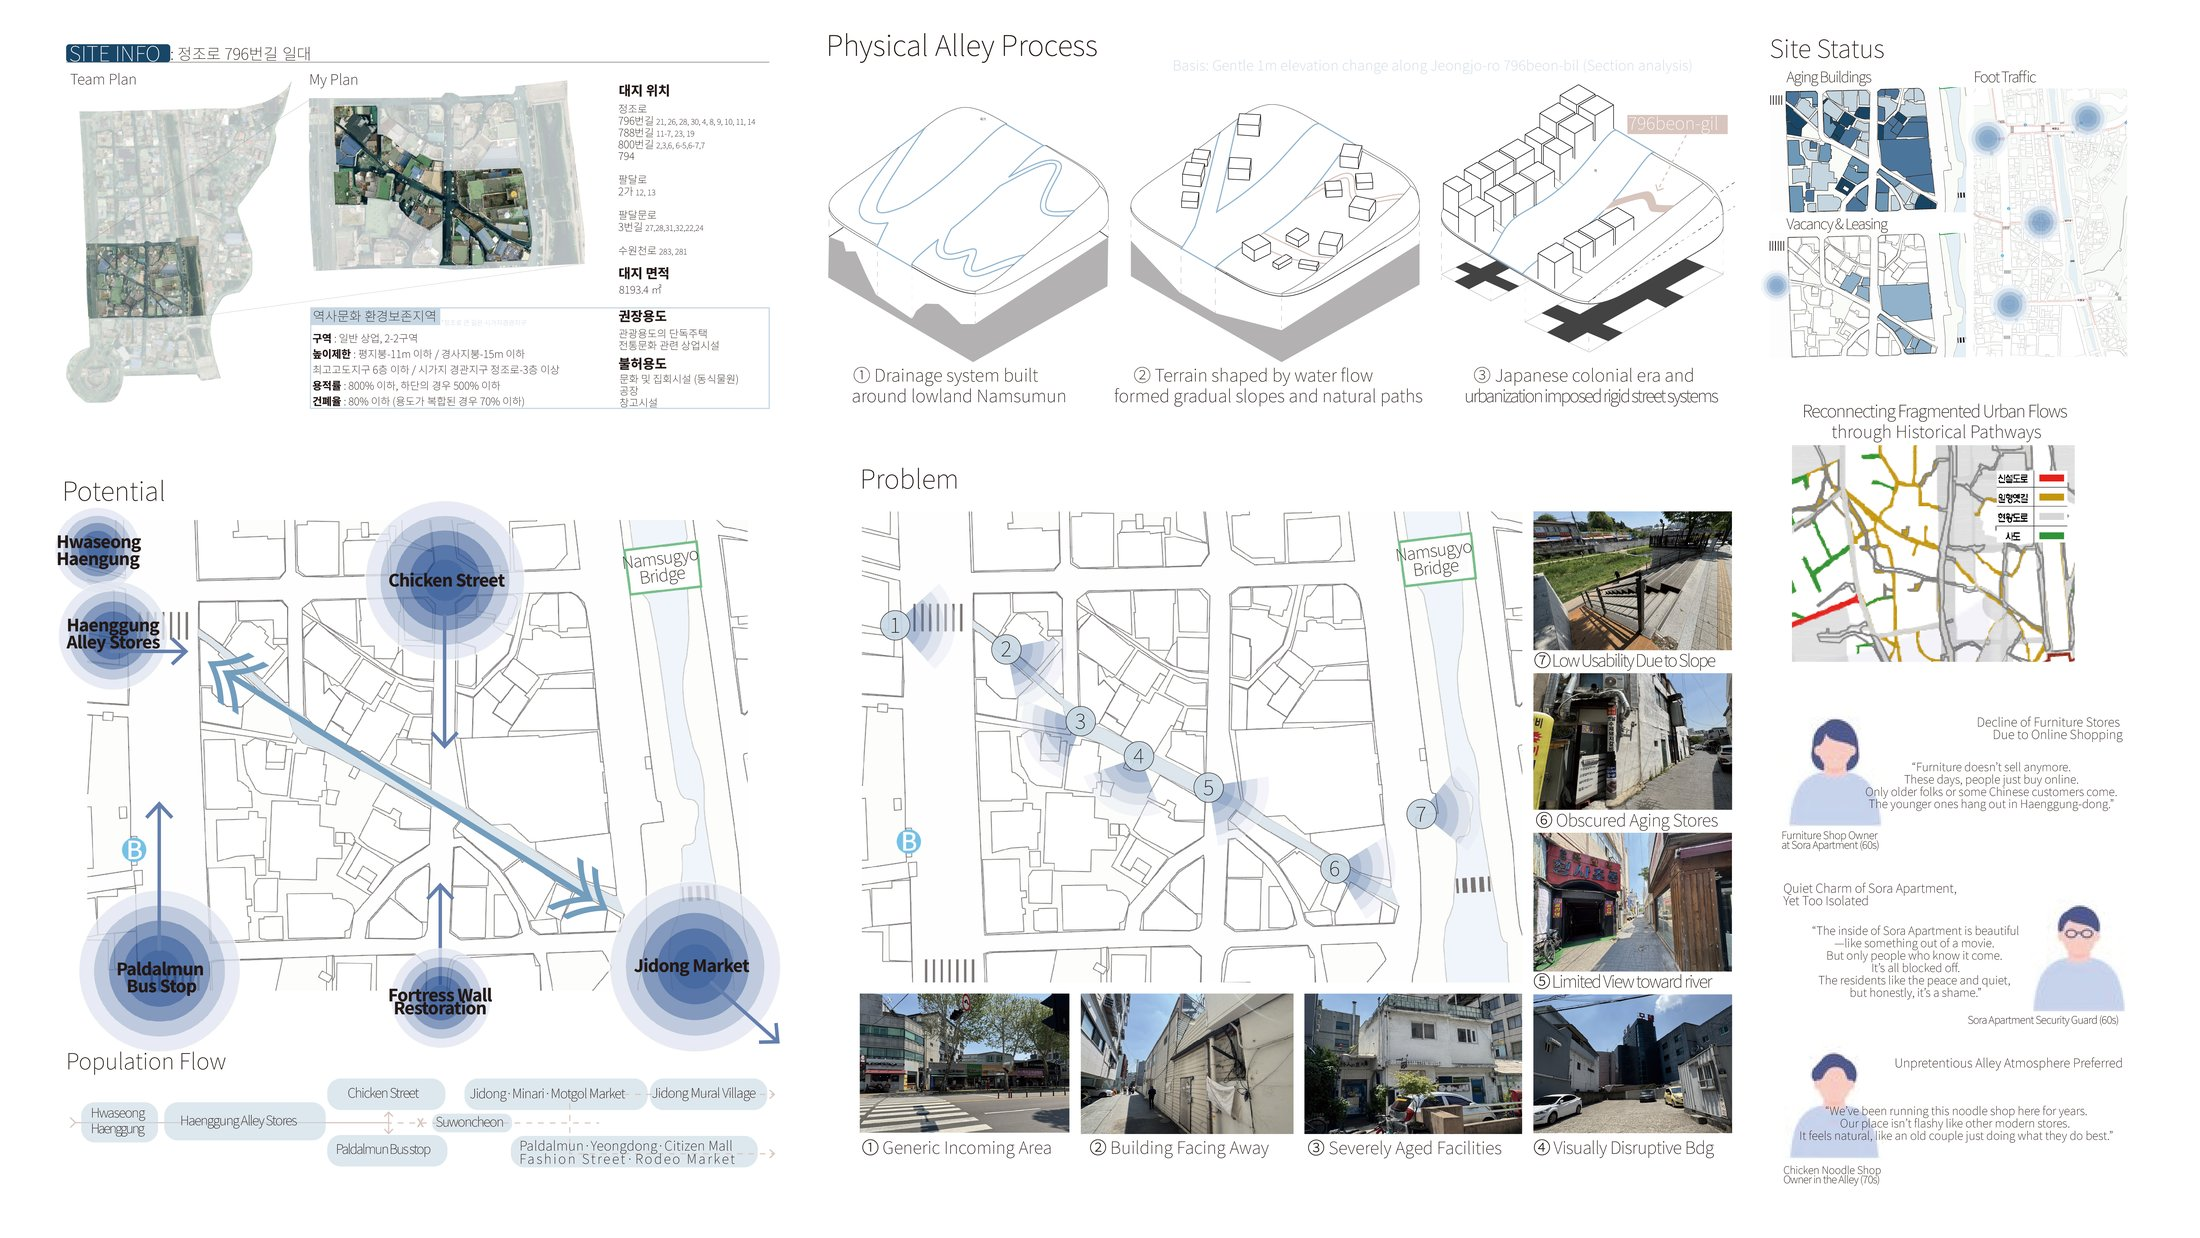
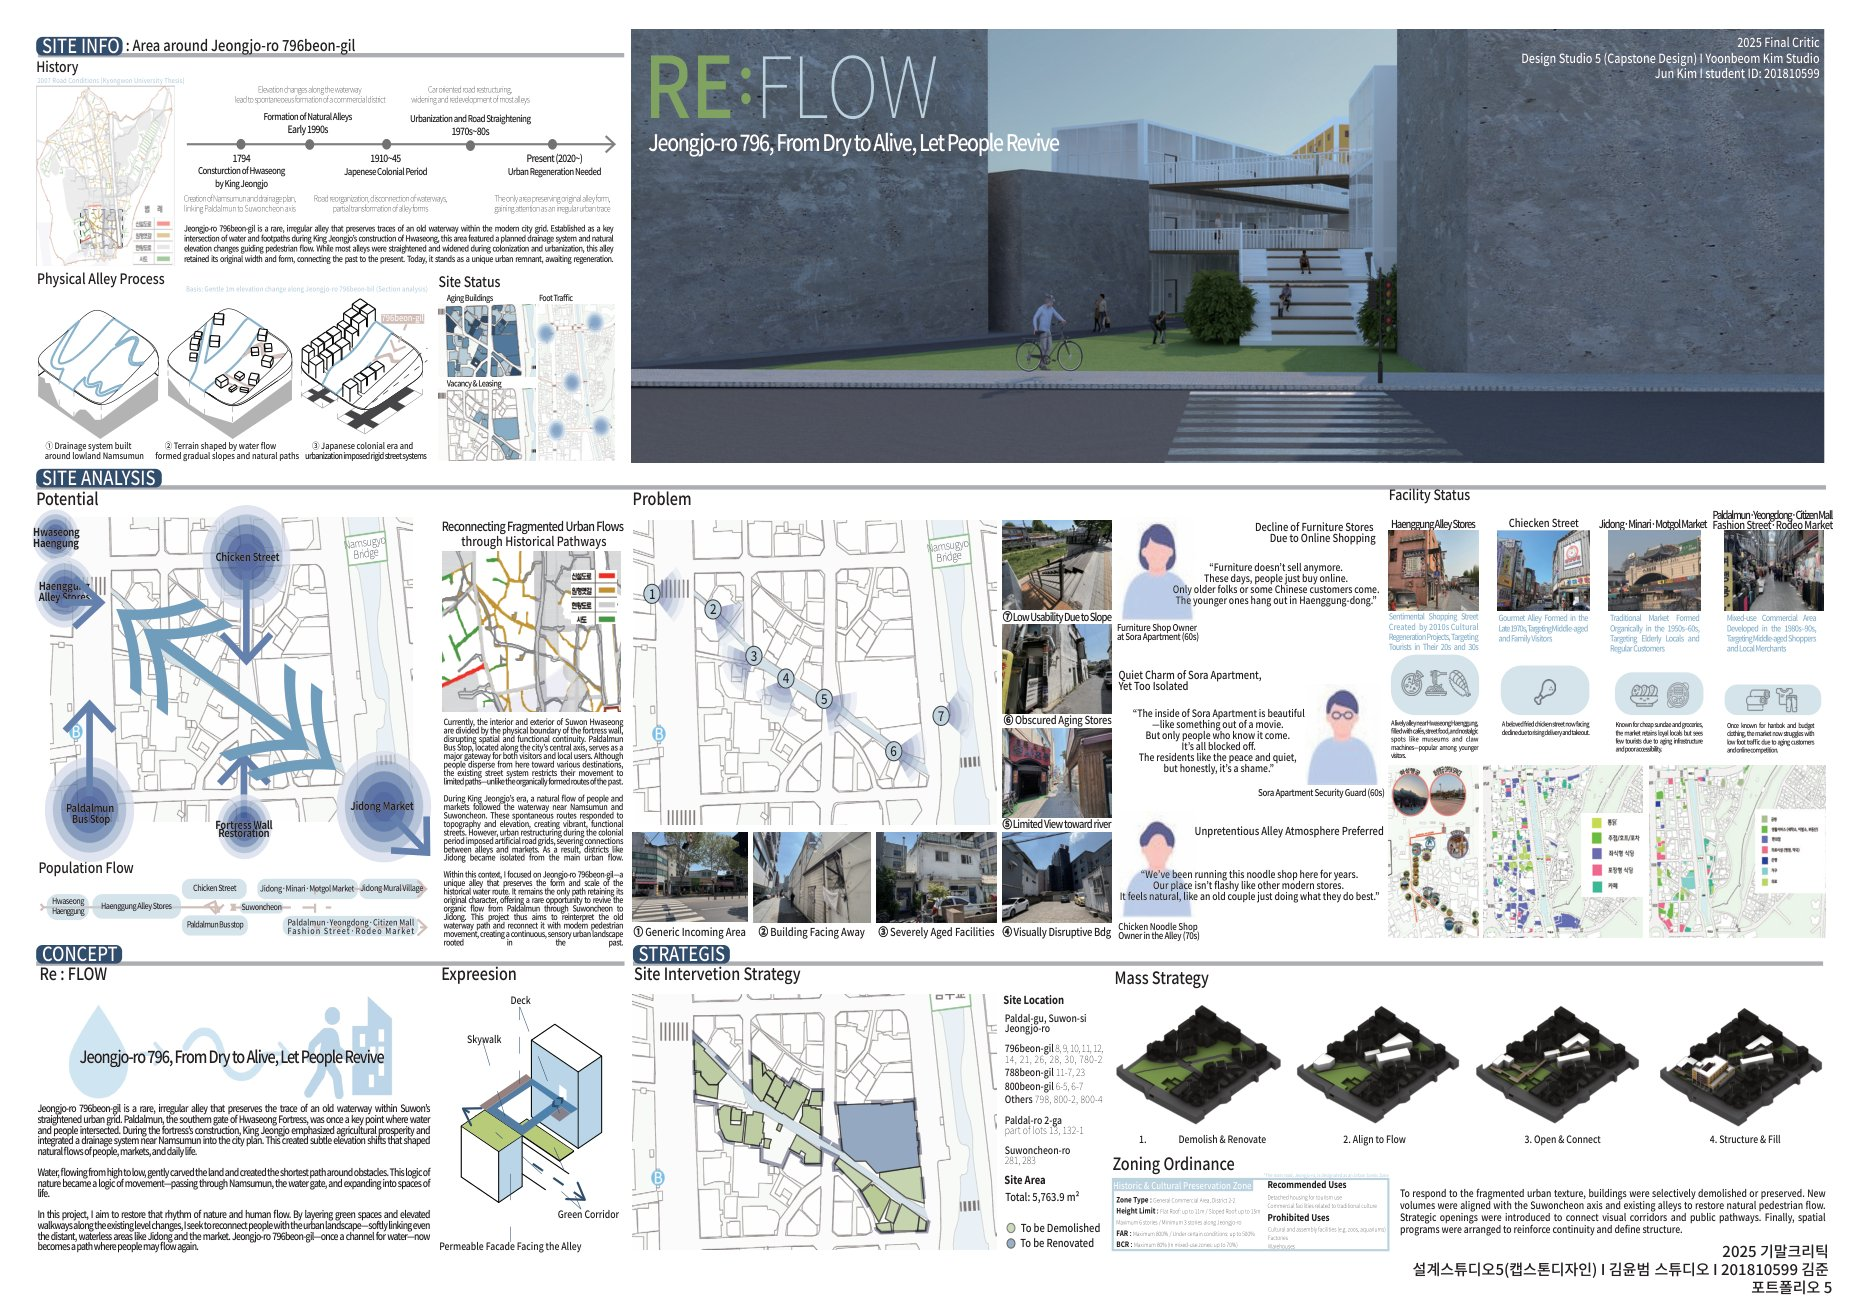
Replace RE:FLOW's single problem-statement page with the 4-panel portfolio spread
Renders the 4 single-page 기크_포폴 PDFs (05-08, in that order) into
RE:FLOW's viewer pages, replacing the old placeholder page 1 entirely.

diff --git a/public/assets/js/app.js b/public/assets/js/app.js
@@ -73,7 +73,7 @@
       field: 'Urban Design | Paldal-gu, Suwon, Korea',
       thumb: 'assets/images/arch_reflow_thumb.jpg',
       intro: { en: 'How do we reconnect the forgotten footsteps of Suwon?', ko: '수원의 잊힌 발걸음을 어떻게 이을 것인가?' },
-      pages: ['assets/images/arch_reflow_p1.jpg'],
+      pages: ['assets/images/arch_reflow_p1.jpg', 'assets/images/arch_reflow_p2.jpg', 'assets/images/arch_reflow_p3.jpg', 'assets/images/arch_reflow_p4.jpg'],
       desc: projDesc(
         "Based on interviews with the people who actually work and live in the alley, this urban regeneration project reopens Suwon's forgotten waterway and footpaths — reviving a once-important street to connect a fading traditional market with a rising modern one.",
         '그 골목에서 일하고 사는 사람들을 직접 인터뷰해서, 수원의 잊혀진 골목에 옛 물길과 발걸음을 다시 열어주는 도시재생 프로젝트입니다. 한때 중요했던 이 길을 되살려, 저물어가는 전통시장과 새로 피어나는 현대시장을 잇습니다.',
